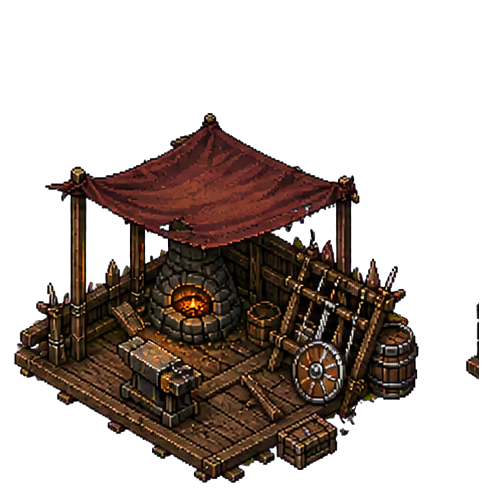
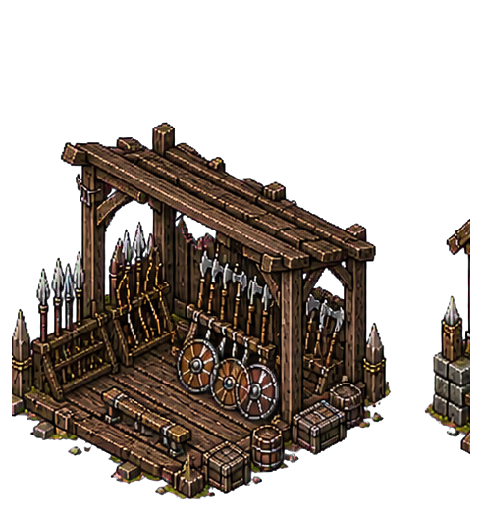
Rebuild camp layout and add blacksmith

diff --git a/tools/build_camp_layers.py b/tools/build_camp_layers.py
@@ -73,6 +73,7 @@ def split_landmarks() -> None:
 def main() -> None:
     OUTPUT.mkdir(parents=True, exist_ok=True)
     split_progression("armory", 4, 1, 4)
+    split_progression("blacksmith", 4, 1, 4)
     split_progression("quartermaster", 4, 1, 4)
     split_progression("training", 3, 2, 6)
     split_landmarks()

diff --git a/ASSET_PROMPTS.md b/ASSET_PROMPTS.md
@@ -16,6 +16,12 @@ The restoration town uses a clean foundation plus transparent structure sprites.
 
 > Create two isolated camp landmarks on a perfectly flat magenta chroma-key background: a sturdy cream-and-burgundy veterans' command tent with timber steps and warm lantern, and a separate stone-ring campfire with cookpot, benches and company standard. Match the camp's scale, camera and crisp pixel-art style. No people, labels, UI or watermark.
 
+### Six-plot restoration layout and Armory separation
+
+> Edit the empty camp foundation into six deliberate, clearly separated plots connected by walking paths: Veterans' Hall north-center, Armory west-middle, Quartermaster east-middle, Blacksmith southwest, Training Yard southeast, and a circular Campfire muster point lower-center. Preserve the exact portrait framing, three-quarter camera, moor, palisade, gate, watchtower, palette, lighting and pixel scale. Keep the foundation reusable: no buildings, active fire, people, labels, UI, text or watermark.
+
+> Create four Armory/arsenal upgrade stages in one horizontal row on a perfectly flat #ff00ff chroma-key background: ruined covered weapon cache, open timber weapons shelter, roofed secure arsenal, fortified master armory. Match the existing grounded detailed pixel art, three-quarter camera, footprint and burgundy company accents. Show organized bows, spears, axes and shields. No forge, fire, hearth, anvil, chimney, smithing tools, people, labels, numbers, UI or watermark. The former forge-style Armory sheet becomes the Blacksmith progression.
+
 ## Blackthorn Moor
 
 > Original detailed pixel-art battlefield on Blackthorn Moor, an open muddy moor viewed top-down in three-quarter perspective with dead grass, puddles, blackthorn, broken stakes and small ancient stones around the perimeter. Clear traversable center, dark edges, cold overcast light, crisp 16-bit pixels, earth brown, moss green, iron gray and extremely subtle pale blue-green mist near stones. Environment only; no UI, characters, text, watermark or large obstacles.
